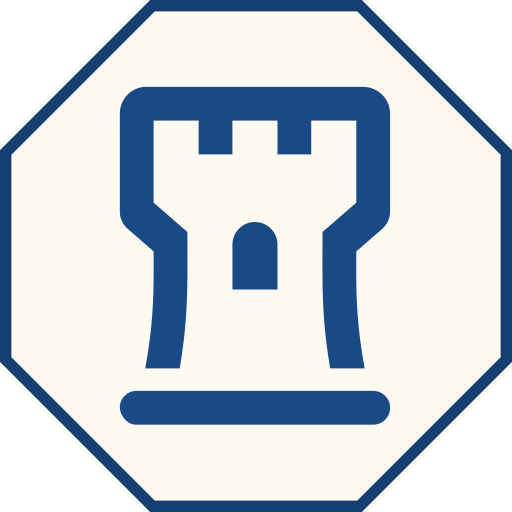
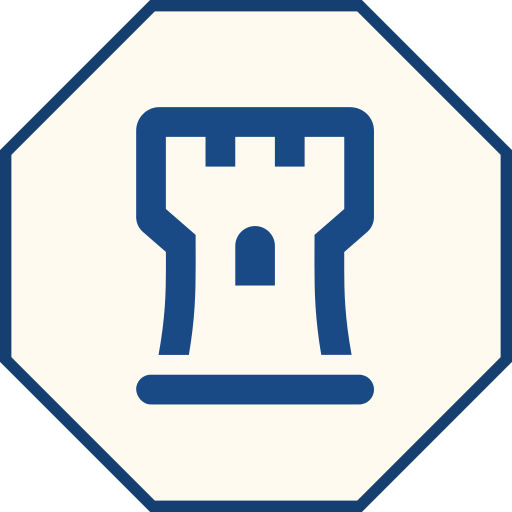
Janggi piece style

Changed region(s): [[0.2188, 0.1562, 0.7812, 0.8438], [0.4375, 0.4375, 0.5625, 0.5938]]

diff --git a/scripts/test-janggi-piece-assets.py b/scripts/test-janggi-piece-assets.py
@@ -75,7 +75,8 @@ class WesternizedPieceAssetsTest(unittest.TestCase):
                     left, top, right, bottom = mask.getbbox()
                     self.assertLess(abs((left + right) / 2 - 256), 3)
                     self.assertLess(abs((top + bottom) / 2 - 256), 3)
-                    self.assertAlmostEqual(max(right - left, bottom - top), 339, delta=5)
+                    expected_extent = 298 if name == "chariot" else 339
+                    self.assertAlmostEqual(max(right - left, bottom - top), expected_extent, delta=5)
                     self.assertGreater(right - left + bottom - top, 490)
                     for y in range(512):
                         for x in range(512):
